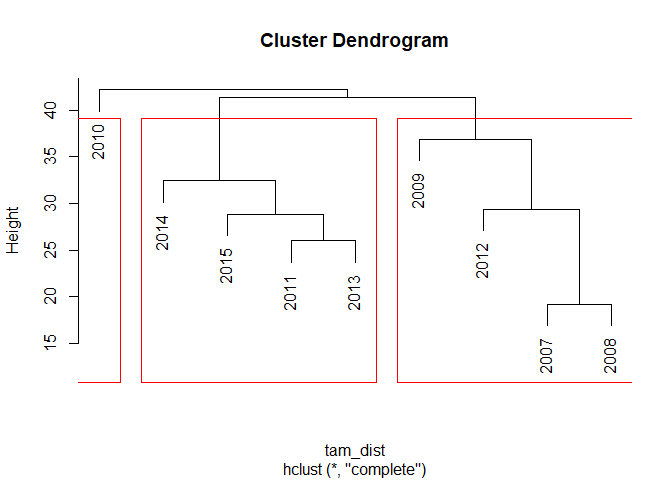
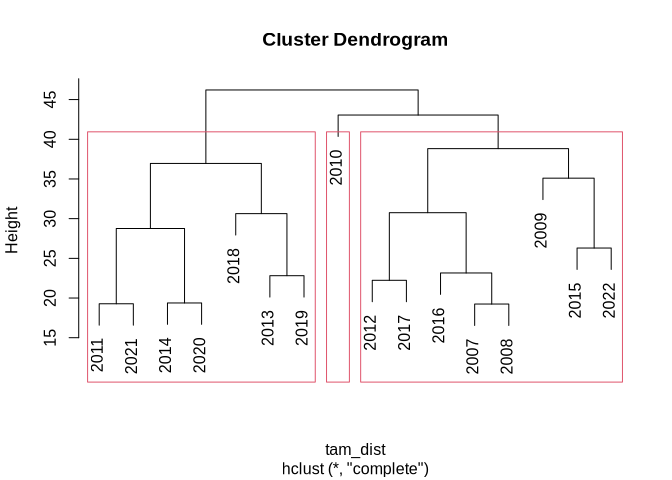
unit10-03 updated with new data

diff --git a/docs/units/_unit10/unit10-03_time_series_clustering.md b/docs/units/_unit10/unit10-03_time_series_clustering.md
@@ -12,11 +12,29 @@ To illustrate this concept, we will again use the (mean monthly) air temperature
 The data has been supplied by the [German Weather Service](https://opendata.dwd.de/climate_environment/CDC/observations_germany). 
 For simplicity, we will remove the first six entries (July to December 2006 to have full years).
 
+```r
+# read data we saved in unit 9
+tam <- read.table("tam.txt", header = TRUE, sep = ";")
+head(tam)
+```
 
+```
+##     Date        Ta
+## 1 200607 21.753970
+## 2 200608 15.567473
+## 3 200609 16.683194
+## 4 200610 12.118817
+## 5 200611  7.325556
+## 6 200612  4.468011
+```
 
 ```r
+# remove the first six entries for simplicity
 tam <- tam[-(1:6),]
-tam$Date <- strptime(paste0(tam$Date, "010000"), format = "%Y%m%d%H%M", tz = "UTC")
+
+# convert Date column to POSIXlt Date; added day 01 for the conversion
+tam$Date <- strptime(paste0(tam$Date, "01"), format = "%Y%m%d", tz = "CEST")
+
 plot(tam$Date, tam$Ta, type = "l")
 ```
 
@@ -38,7 +56,7 @@ This will result in a matrix with one year per row:
 
 ```r
 tam_ta <- matrix(tam$Ta, ncol = 12, byrow = TRUE)
-row.names(tam_ta) <- paste0(seq(2007, 2015))
+row.names(tam_ta) <- paste0(seq(2007, 2022))
 tam_ta
 ```
 
@@ -53,6 +71,13 @@ tam_ta
 ## 2013  1.092070 -0.04494048 0.7533602  8.902222 12.11250 16.44056 19.96048
 ## 2014  3.575000  4.64568452 7.0896505 11.548194 12.78562 16.32681 19.79220
 ## 2015  2.461022  1.62306548 5.0916667  8.785694 12.88306 16.49889 20.10591
+## 2016  2.184677  3.64382184 4.3685484  8.124861 14.03199 17.31597 18.97796
+## 2017 -2.356048  3.43883929 7.5743280  7.946806 14.41142 18.13806 18.67043
+## 2018  4.378898 -1.49925595 3.2267473 12.705278 16.28723 18.45139 20.98952
+## 2019  1.182258  3.38601190 7.0571237 10.277222 11.70659 20.03375 18.35600
+## 2020  3.457124  5.73821839 6.2223118 10.730972 12.50188 17.32931 18.42016
+## 2021  1.723790  0.74404762 5.2905914  6.442500 11.34368 19.68181 18.34825
+## 2022  3.516935  4.83750000 4.9598118  8.570139 15.15296 18.71167 19.75430
 ##          [,8]     [,9]     [,10]    [,11]      [,12]
 ## 2007 16.73898 12.67542  8.470296 4.480000  1.6173387
 ## 2008 17.82917 12.47181  8.755780 5.336667  0.7397849
@@ -63,34 +88,55 @@ tam_ta
 ## 2013 18.01801 13.68875 10.692608 4.619167  3.9010753
 ## 2014 16.05228 14.87569 11.748790 6.533889  3.1159946
 ## 2015 19.93105 12.79472  8.746774 7.553333  6.7141129
+## 2016 18.11089 17.09653  8.751210 3.957778  1.7149194
+## 2017 17.78078 13.03278 11.249462 5.314444  3.4383065
+## 2018 20.04140 14.25931  9.822715 5.335694  4.2998656
+## 2019 21.41890 13.94278 11.014516 5.338472  3.3940860
+## 2020 20.34772 14.67410 10.608871 5.903194  3.8330645
+## 2021 16.58638 15.19500  9.152016 4.992083  3.3623656
+## 2022 21.14745 13.83819 11.725672 6.912083  2.2442204
 ```
 
 This matrix can subsequently be used to compute the dissimilarity between the individual time series. In this example, we use the ``TSclust::diss`` function with method "DTWARP" (which is one of many, each leading to a different result; p gives the decaying of the auto-correlation coefficient to be considered).
 
 ```r
-tam_dist <- TSclust::diss( tam_ta, "DTWARP", p=0.05)
+tam_dist <- TSclust::diss(tam_ta, "DTWARP", p = 0.05)
 tam_dist
 ```
 
 ```
-##          2007     2008     2009     2010     2011     2012     2013
-## 2008 19.24069                                                      
-## 2009 30.79566 31.27686                                             
-## 2010 41.22420 39.78805 38.00132                                    
-## 2011 22.79959 30.53591 27.06892 42.14468                           
-## 2012 29.35046 21.24988 36.84308 41.79336 31.11600                  
-## 2013 40.45138 40.87593 41.37245 35.56177 25.98853 29.09403         
-## 2014 26.78914 33.90738 36.86756 40.04724 28.75914 36.35242 32.43355
-## 2015 35.82190 30.72825 33.32398 32.51645 28.84693 29.41835 28.72208
-##          2014
-## 2008         
-## 2009         
-## 2010         
-## 2011         
-## 2012         
-## 2013         
-## 2014         
-## 2015 29.13347
+##          2007     2008     2009     2010     2011     2012     2013     2014
+## 2008 19.24069                                                               
+## 2009 30.79566 31.27686                                                      
+## 2010 41.22420 39.78805 38.00132                                             
+## 2011 22.79959 30.53591 27.06892 42.14468                                    
+## 2012 29.35046 21.24988 36.84308 41.79336 31.11600                           
+## 2013 40.45138 40.87593 41.37245 35.56177 25.98853 29.09403                  
+## 2014 26.78914 33.90738 36.86756 40.04724 28.75914 36.35242 32.43355         
+## 2015 35.82190 30.72825 33.32398 32.51645 28.84693 29.41835 28.72208 29.13347
+## 2016 23.15795 19.50518 31.47002 43.05289 20.96015 25.73721 32.33223 30.89450
+## 2017 30.75250 22.67033 38.39494 40.17789 35.51358 22.23133 30.30811 33.04461
+## 2018 38.37680 35.55872 38.23498 46.21456 27.87125 34.87994 29.27271 30.92867
+## 2019 37.62395 36.81298 43.30056 43.74769 35.43320 37.05981 22.81779 25.41953
+## 2020 29.46244 31.18338 37.89050 39.45226 21.07195 35.50115 31.88983 19.38225
+## 2021 28.20694 34.94268 33.28278 37.40041 19.27723 37.61231 28.43564 26.24180
+## 2022 33.33505 24.19531 35.10020 42.44488 39.88704 28.67564 41.08707 24.16946
+##          2015     2016     2017     2018     2019     2020     2021
+## 2008                                                               
+## 2009                                                               
+## 2010                                                               
+## 2011                                                               
+## 2012                                                               
+## 2013                                                               
+## 2014                                                               
+## 2015                                                               
+## 2016 32.72350                                                      
+## 2017 38.81933 25.53853                                             
+## 2018 32.86640 37.02209 36.24021                                    
+## 2019 36.00403 36.63025 24.27164 30.63571                           
+## 2020 28.86440 30.54257 31.01781 23.97460 20.27760                  
+## 2021 34.07328 28.80359 34.94257 36.95792 22.82116 25.03672         
+## 2022 26.30120 32.35828 28.57497 35.20857 28.75007 27.37277 40.29093
 ```
 
 The resulting dissimilarity is larger if the different time series (i.e. years in this case) are less similar and smaller if they are more similar. 
@@ -116,6 +162,6 @@ cutree(tam_hc, k = 3)
 ```
 
 ```
-## 2007 2008 2009 2010 2011 2012 2013 2014 2015 
-##    1    1    1    2    3    1    3    3    3
+## 2007 2008 2009 2010 2011 2012 2013 2014 2015 2016 2017 2018 2019 2020 2021 2022 
+##    1    1    1    2    3    1    3    3    1    1    1    3    3    3    3    1
 ```
